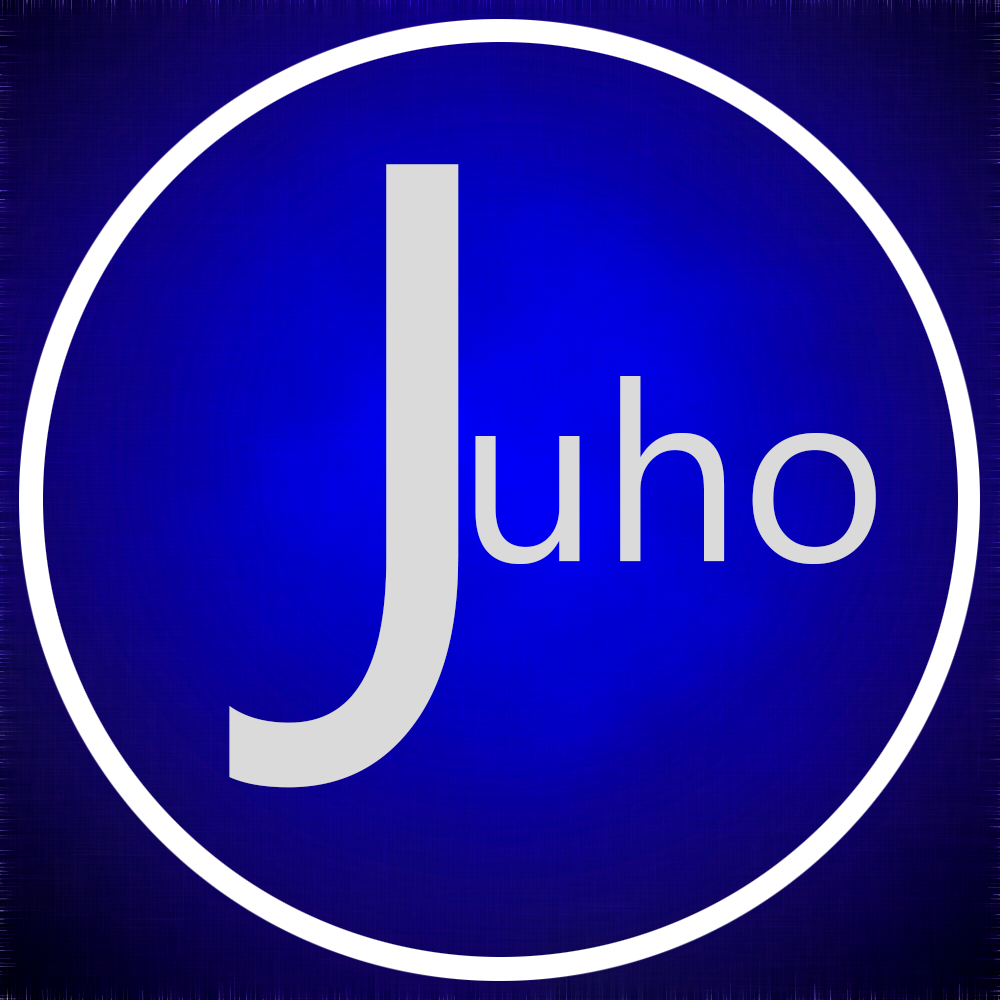
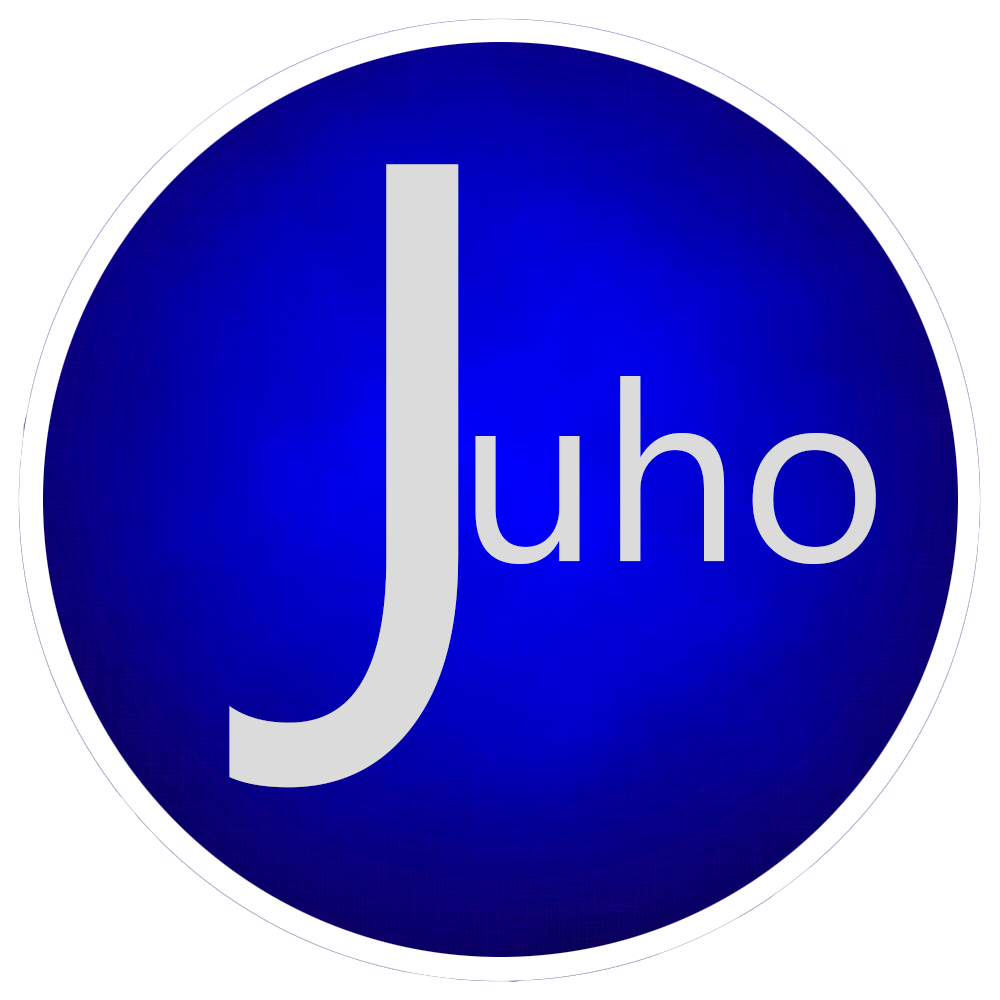
some style changes
position changes to about page handlers, fixed logo image

Changed region(s): [[0.0, 0.0, 1.0, 1.0]]

diff --git a/about.html b/about.html
@@ -32,22 +32,22 @@
 		<!-- Parallax Section -->
 		<section class="banner" id="contact">
 			<h2 class="parallax">Who am I?</h2>
-			<p class="parallax_description">I'm Juho Turkki, 22 years old, living in Lappeenranta, Finland and I'm studying Business Administration with major on IT at LAB University of Applied Sciences. Currently working as Apple service technician at iTronic Lappeenranta.</p>
+			<p class="parallax_description">I'm Juho and some may call me Jutu. I'm 22 years old, living in Lappeenranta, Finland and I'm studying Business Administration with major on IT at LAB University of Applied Sciences. Currently working as an Apple service technician at iTronic Lappeenranta.</p>
 		</section>
 
 		<!-- Stats Gallery Section -->
 		<div class="gallery">
 			<div class="thumbnail">
 				<h1 class="stats">LinkedIn</h1>
-				<h4><a href="https://www.linkedin.com/in/juho-turkki/" target="_blank">https://www.linkedin.com/in/juho-turkki/</a></h4>
+				<h4><a href="https://www.linkedin.com/in/juho-turkki/" target="_blank">@juho-turkki</a></h4>
 			</div>
 			<div class="thumbnail">
 				<h1 class="stats">Instagram</h1>
-				<h4><a href="https://instagram.com/juhoturkki" target="_blank">https://instagram.com/juhoturkki</a></h4>
+				<h4><a href="https://instagram.com/juhoturkki" target="_blank">@juhoturkki</a></h4>
 			</div>
 			<div class="thumbnail">
 				<h1 class="stats">Facebook</h1>
-				<h4><a href="https://facebook.com/juhoturkki" target="_blank">https://facebook.com/juhoturkki</a></h4>
+				<h4><a href="https://facebook.com/juhoturkki" target="_blank">@juhoturkki</a></h4>
 			</div>
 			<div class="thumbnail">
 				<h1 class="stats">Contact me!</h1>

diff --git a/css/style.css b/css/style.css
@@ -62,7 +62,7 @@ nav ul li:hover a {
 nav .current {
     border: 3px solid #007bff;
     border-radius: 5px;
-    padding: 5px;
+    padding: 0 3px;
 }
 a {
     color: #007bff;
@@ -113,10 +113,10 @@ h2 {
     margin-bottom: 0;
 }
 .thumbnail {
-    width: 33%;
+    width: 50%;
     text-align: center;
     float: left;
-    margin-top: 35px;
+    margin: 0 auto;
 }
 .gallery .thumbnail h4 {
     margin: 5px;
@@ -147,7 +147,7 @@ h2 {
     color: #FFFFFF;
     text-align: left;
     padding-left: 100px;
-    width: 30%;
+    width: 40%;
     float: left;
     font-weight: lighter;
     line-height: 23px;
@@ -302,6 +302,7 @@ h2 {
 @media (max-width: 777px) {
     .container {
         width: 100%;
+        margin-top: 60px;
     }
     header {
         width: 100%;
@@ -333,21 +334,19 @@ h2 {
         text-decoration: none;
         width: 80%;
     }
-    nav .current li {
-        background-color: #007bff;
+    .navShown .current {
+        padding: 0;
     }
     .logo {
         width: auto;
-    }
-    main {
-        width: 90%;
-        margin: 0 auto;
     }
     .hero {
         padding: 150px 0 50px;
     }
     .thumbnail {
         width: 100%;
+        height: auto;
+        overflow: hidden;
     }
     .info {
         padding: 30px 0;
